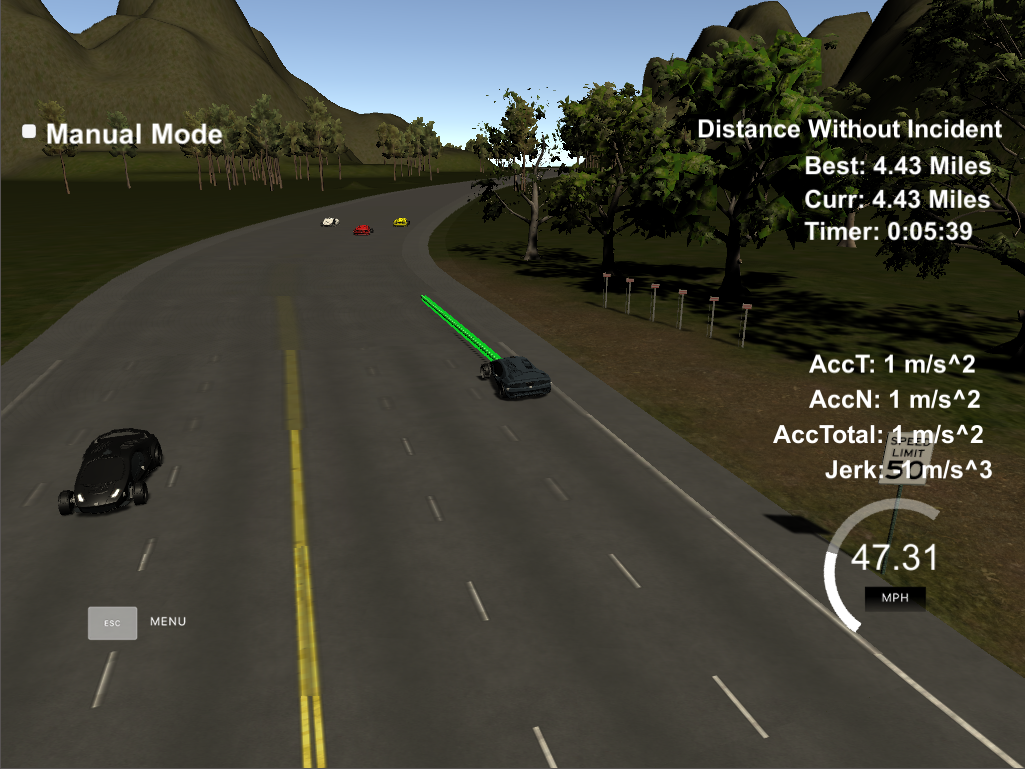
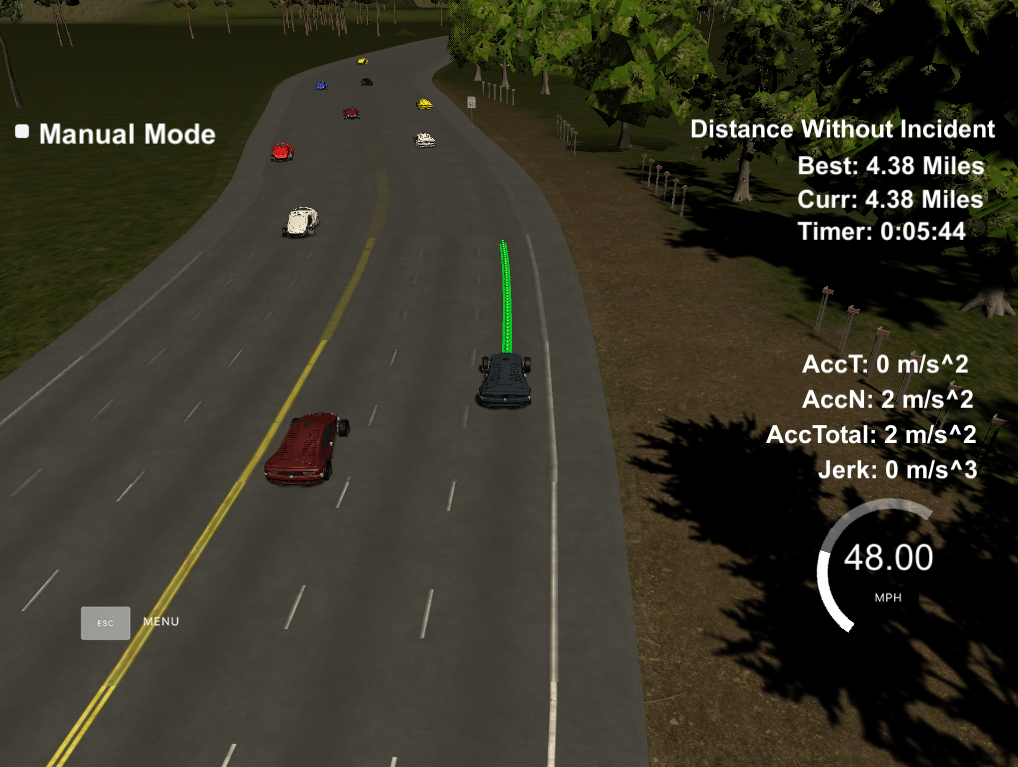
final source changes

diff --git a/src/vehicle.cpp b/src/vehicle.cpp
@@ -60,11 +60,12 @@ vector<string> Vehicle::successor_states() {
     /*
     Provides the possible next states given the current state for the FSM 
     */
-    vector<string> states;
-    states.push_back("KL");
+    vector<string> states = {};
+    
     string state = this->state;
     if(state.compare("KL") == 0) 
     {
+        states.push_back("KL");
         if (lane != 0)
         {            
             states.push_back("PLCL");
@@ -75,17 +76,37 @@ vector<string> Vehicle::successor_states() {
         }
        
     } 
+    else if (state.compare("LCCD") == 0)
+    {
+        if (this->lane_change_cooldown > 0)
+        {
+            states.push_back("LCCD");
+            this->lane_change_cooldown--;
+        }
+        else
+        {
+            states.push_back("KL");
+            this->lane_change_cooldown = this->lane_change_cooldown_orig;
+        }
+    }
     else if (state.compare("PLCL") == 0) 
     {
-            states.push_back("PLCL");
-            states.push_back("LCL");
+        states.push_back("KL");
+        states.push_back("PLCL");
+        states.push_back("LCL");
     } 
     else if (state.compare("PLCR") == 0) 
     {
-            states.push_back("PLCR");
-            states.push_back("LCR");
+        states.push_back("KL");
+        states.push_back("PLCR");
+        states.push_back("LCR");
     }
-    //If state is "LCL" or "LCR", then just return "KL"
+    else if ((state.compare("LCL") == 0) ||
+             (state.compare("LCR") == 0))
+    {
+        this->lane_change_cooldown_orig = this->lane_change_cooldown;
+        states.push_back("LCCD");
+    }
     return states;
 }
 
@@ -94,8 +115,8 @@ vector<Vehicle> Vehicle::generate_trajectory(string state, map<int, vector<Vehic
     Given a possible next state, generate the appropriate trajectory to realize the next state.
     */
     vector<Vehicle> trajectory;
-    if (state.compare("KL") == 0) {
-        trajectory = keep_lane_trajectory(predictions);
+    if (state.compare("KL") == 0 || state.compare("LCCD") == 0) {
+        trajectory = keep_lane_trajectory(state, predictions);
     } else if (state.compare("LCL") == 0 || state.compare("LCR") == 0) {
         trajectory = lane_change_trajectory(state, predictions);
     } else if (state.compare("PLCL") == 0 || state.compare("PLCR") == 0) {
@@ -130,11 +151,18 @@ vector<double> Vehicle::get_kinematics(map<int, vector<Vehicle>> predictions, in
     if(get_vehicle_ahead(predictions, lane, vehicle_ahead)) 
     {
         //std::cout << "Car detected ahead s,v = " << vehicle_ahead.s - this->s << "," << vehicle_ahead.v << std::endl;
-
-        double max_velocity_in_front = (vehicle_ahead.s - this->s - this->buffer) + vehicle_ahead.v - 0.5 * (this->a);
-        if (max_velocity_in_front < this->target_speed)
+        if ((vehicle_ahead.s - this->s) < this->danger_buffer)
         {
-            new_velocity = vehicle_ahead.v;
+            std::cout << "Collision Imminent! Activating emergency braking!" << std::endl;
+            new_velocity = 0; // slow down as fast as possible
+        }
+        else 
+        {
+            double max_velocity_in_front = (vehicle_ahead.s - this->s - this->buffer) + vehicle_ahead.v - 0.5 * (this->a);
+            if (max_velocity_in_front < this->target_speed)
+            {
+                new_velocity = vehicle_ahead.v;
+            }
         }
 
     } 
@@ -146,7 +174,7 @@ vector<double> Vehicle::get_kinematics(map<int, vector<Vehicle>> predictions, in
     
 }
 
-vector<Vehicle> Vehicle::keep_lane_trajectory(map<int, vector<Vehicle>> predictions) {
+vector<Vehicle> Vehicle::keep_lane_trajectory(string state, map<int, vector<Vehicle>> predictions) {
     /*
     Generate a keep lane trajectory.
     */
@@ -155,7 +183,7 @@ vector<Vehicle> Vehicle::keep_lane_trajectory(map<int, vector<Vehicle>> predicti
     double new_s = kinematics[0];
     double new_v = kinematics[1];
     double new_a = kinematics[2];
-    trajectory.push_back(Vehicle(this->lane, new_s, new_v, new_a, "KL"));
+    trajectory.push_back(Vehicle(this->lane, new_s, new_v, new_a, state));
     return trajectory;
 }
 
@@ -168,7 +196,7 @@ vector<Vehicle> Vehicle::prep_lane_change_trajectory(string state, map<int, vect
     double new_a;
     int new_lane = this->lane + lane_direction[state];
     vector<Vehicle> trajectory = {Vehicle(this->lane, this->s, this->v, this->a, this->state)};
-    vector<double> curr_lane_new_kinematics = get_kinematics(predictions, this->lane);
+    vector<double> next_lane_new_kinematics = get_kinematics(predictions, new_lane);
 
    /* Didn't end up being useful...
     vector<double> best_kinematics;
@@ -179,9 +207,9 @@ vector<Vehicle> Vehicle::prep_lane_change_trajectory(string state, map<int, vect
     } else {
         best_kinematics = curr_lane_new_kinematics;
     }*/
-    new_s = curr_lane_new_kinematics[0];
-    new_v = curr_lane_new_kinematics[1];
-    new_a = curr_lane_new_kinematics[2];
+    new_s = next_lane_new_kinematics[0];
+    new_v = next_lane_new_kinematics[1];
+    new_a = next_lane_new_kinematics[2];
 
 
     trajectory.push_back(Vehicle(this->lane, new_s, new_v, new_a, state));
@@ -196,8 +224,8 @@ vector<Vehicle> Vehicle::lane_change_trajectory(string state, map<int, vector<Ve
     vector<Vehicle> trajectory;
     Vehicle next_lane_vehicle;
     trajectory.push_back(Vehicle(this->lane, this->s, this->v, this->a, this->state));
-    vector<double> kinematics = get_kinematics(predictions, new_lane);
-    trajectory.push_back(Vehicle(new_lane, kinematics[0], kinematics[1], kinematics[2], state));
+    //vector<double> kinematics = get_kinematics(predictions, new_lane);
+    trajectory.push_back(Vehicle(new_lane, this->s, this->v, this->a, state));
     return trajectory;
 }
 

diff --git a/src/main.cpp b/src/main.cpp
@@ -171,13 +171,14 @@ vector<double> getXY(double s, double d, const vector<double> &maps_s, const vec
 #define SPEED_LIMIT  50 / SPEED_CONVERSION
 #define SPEED_TARGET 47 / SPEED_CONVERSION
 #define DEFAULT_LANE 1
-#define TARGET_ACCEL 6.0
+#define TARGET_ACCEL 5.0
 #define MAX_ACCEL 8.0
 #define NUM_LANES 3
 #define HORIZON 45.0
 #define EGO_CAR_GOAL 6945.554
 #define TIME_PER_POINT .02
-#define BUFFER 15.0
+#define BUFFER 25.0
+#define LANE_CHANGE_COOLDOWN 50
 
 // Dylan: D val to Lane val translation functions
 int translate_lane_to_d_val(int lane)
@@ -238,11 +239,11 @@ int main() {
   ego_car.target_speed = SPEED_TARGET;
   ego_car.lanes_available = NUM_LANES;
   ego_car.goal_s = EGO_CAR_GOAL;
-  ego_car.goal_lane = DEFAULT_LANE;
   ego_car.state = "KL"; 
   ego_car.a = 0;
-  ego_car.lane = 1;
+  ego_car.lane = DEFAULT_LANE;
   ego_car.buffer = BUFFER;
+  ego_car.lane_change_cooldown = LANE_CHANGE_COOLDOWN;
   
   while (getline(in_map_, line)) {
   	istringstream iss(line);
@@ -383,9 +384,11 @@ int main() {
             
             
             // Dylan: Update ego
-            ego_car.s = ref_s;
-            ego_car.v = ref_v; 
+            ego_car.s = car_s;
+            ego_car.v = car_speed / SPEED_CONVERSION; 
             //ego_car.a = ref_a;
+            
+            //std::cout << "state=" <<  ego_car.state << " lane=" <<  ego_car.lane << std::endl;
             
             // Trajectory generation
             vector<Vehicle> trajectory = ego_car.choose_next_state(predictions);
@@ -487,6 +490,7 @@ int main() {
 
             ego_car.state = trajectory[1].state;
             ego_car.lane = trajectory[1].lane;
+            ego_car.a = trajectory[1].a;
             
             /* Debug  
             for (int i = 0; i < next_x_vals.size(); i++)

diff --git a/src/cost.cpp b/src/cost.cpp
@@ -8,7 +8,7 @@
 const double LANE_CHANGE = pow(10, 4);
 const double EFFICIENCY = pow(10, 5);
 const double CONGESTION_COST = pow(10,5);
-const double DANGER_COST = pow(10,7);
+const double DANGER_COST = pow(10,8);
 
 double lane_change_cost(const Vehicle & vehicle, const vector<Vehicle> & trajectory, const map<int, vector<Vehicle>> & predictions, map<string, double> & data) {
     /*
@@ -98,17 +98,19 @@ double lane_danger(const Vehicle & vehicle, const map<int, vector<Vehicle>> & pr
     Amount of vehicles in danger buffer
     */
     double danger_val = 0;
+    double ego_s = 0;
     //std::cout << "vehicle.s: " << vehicle.s << std::endl;
     for (map<int, vector<Vehicle>>::const_iterator it = predictions.begin(); it != predictions.end(); ++it) {
         for (int i=0;i < it->second.size();i++)
         {
             Vehicle veh = it->second[i];
+            ego_s = vehicle.s + vehicle.v*i + vehicle.a*i*i/2.0;
             //std::cout << "veh.lane: " << veh.lane << " veh.s: " << veh.s << " veh.v: " << veh.v << std::endl;
             if (veh.lane == lane) {
-                if (fabs(veh.s - vehicle.s) < vehicle.danger_buffer) 
+                if (fabs(veh.s - ego_s) < vehicle.danger_buffer) 
                 {
                     //std::cout << "vehicle found in danger buffer for lane " << lane << ", vehicle.s: " << vehicle.s << " veh.s: " << veh.s << std::endl;
-                    danger_val++; // +1 for each car in buffer
+                    danger_val+= (vehicle.danger_buffer - fabs(veh.s - ego_s)); // add based on distance
                 }
             }
         }

diff --git a/src/vehicle.h b/src/vehicle.h
@@ -14,7 +14,9 @@ public:
   map<string, int> lane_direction = {{"PLCL", -1}, {"LCL", -1}, {"LCR", 1}, {"PLCR", 1}};
 
   double buffer; // impacts "keep lane" behavior.
-  double danger_buffer = 8; // collision avoidance
+  double danger_buffer = 10; // collision avoidance
+  int lane_change_cooldown_orig;
+  int lane_change_cooldown;
 
   int lane;
 
@@ -27,8 +29,6 @@ public:
   double target_speed;
 
   int lanes_available;
-
-  int goal_lane;
 
   double goal_s;
 
@@ -55,7 +55,7 @@ public:
 
   vector<double> get_kinematics(map<int, vector<Vehicle>> predictions, int lane);
 
-  vector<Vehicle> keep_lane_trajectory(map<int, vector<Vehicle>> predictions);
+  vector<Vehicle> keep_lane_trajectory(string state, map<int, vector<Vehicle>> predictions);
 
   vector<Vehicle> lane_change_trajectory(string state, map<int, vector<Vehicle>> predictions);
 

diff --git a/README.md b/README.md
@@ -1,6 +1,16 @@
-# CarND-Path-Planning-Project
-Self-Driving Car Engineer Nanodegree Program
-   
+#  Path Planning Project
+
+[//]: # (Image References)
+[image1]: ./doc/best_nav.gif  "Final Nav"
+[image2]: ./doc/double.gif  "double"
+
+![alt text][image1]
+
+
+
+
+![alt text][image2]
+
 ### Simulator.
 You can download the Term3 Simulator which contains the Path Planning Project from the [releases tab (https://github.com/udacity/self-driving-car-sim/releases/tag/T3_v1.2).
 
